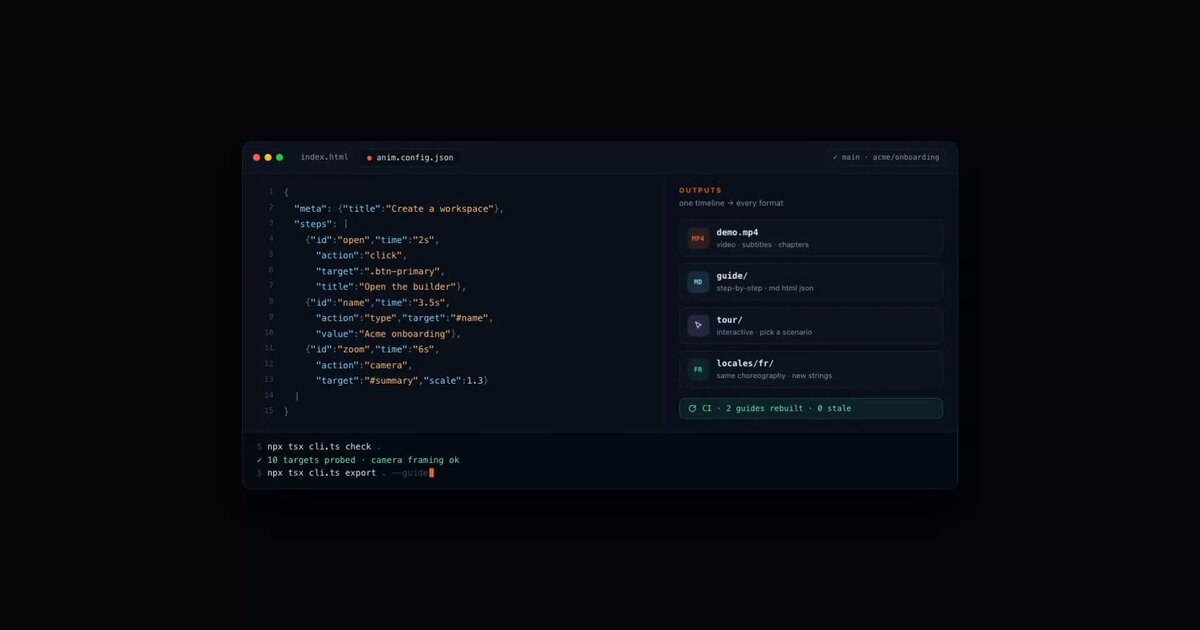
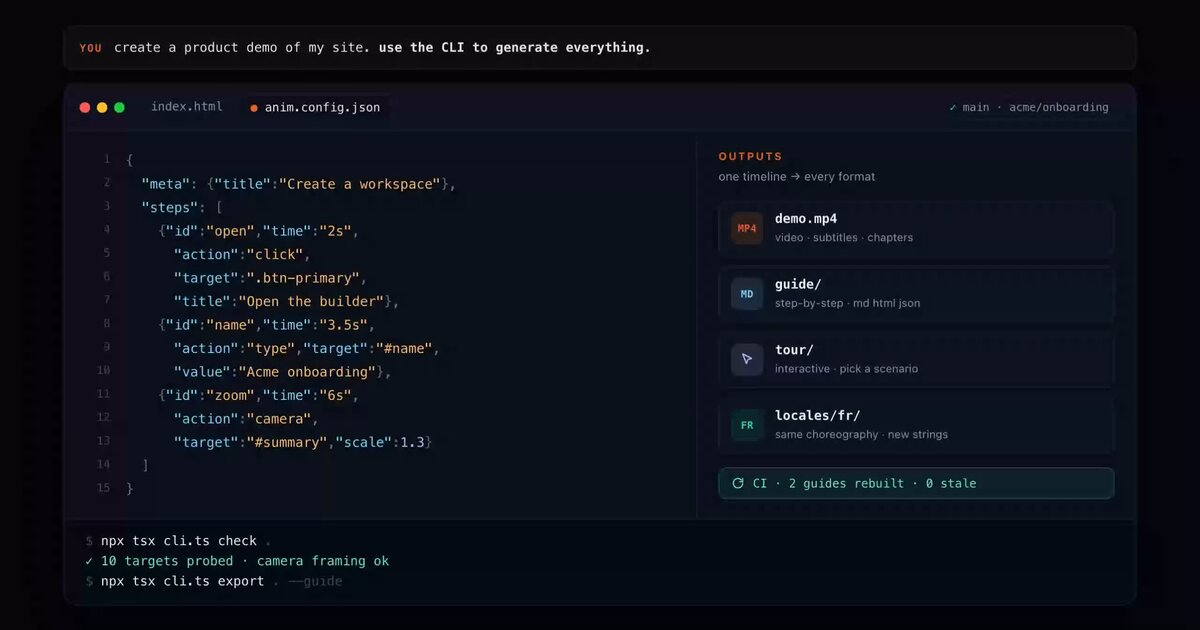
Le produit devient Vistaro, « Show. Don't Tell. », et le site porte le nouveau nom de bout en bout.
Renommage complet de la page : logo (nav et pied), titre et og:title (qui portent aussi le slogan), aria-labels, chip du clip en capitales, trois réponses de FAQ et une question, textes alternatifs, © ; le H1 devient le slogan et la phrase « Product demos as code » ouvre désormais le paragraphe du héros. Courriel de vente déplacé vers sales@vistaro.dev (domaine à enregistrer avant mise en ligne : le DNS est encore vide). Sources du clip renommées (meta.app, slug, titre du gabarit) et embed régénéré; aucune ré-export vidéo, le nom n'étant jamais rendu dans le clip. og.jpg régénéré du poster courant (il datait de la révision précédente du gabarit). Revue de code à contexte neuf : COMMIT OK.

diff --git a/website/index.html b/website/index.html
@@ -3,9 +3,9 @@
 <head>
 <meta charset="utf-8">
 <meta name="viewport" content="width=device-width, initial-scale=1">
-<title>Demoforge — Product demos as code</title>
+<title>Vistaro — Show. Don't Tell.</title>
 <meta name="description" content="The demo tool built for coding agents: Claude Code, Codex or Antigravity writes your demo as two text files in the repo, compiles video, guides, reels, tours and every locale, and audits its own work. Humans review the diff and tweak details.">
-<meta property="og:title" content="Demoforge — Product demos as code">
+<meta property="og:title" content="Vistaro — Show. Don't Tell.">
 <meta property="og:description" content="Built for your coding agent, not your screen recorder: one instruction and it writes the demo as code in your repo, compiles every artifact in every locale, and regenerates whenever the UI changes. You review the diff and tweak details.">
 <meta property="og:image" content="assets/og.jpg">
 <meta property="og:type" content="website">
@@ -509,9 +509,9 @@
 <!-- ======================= NAV ======================= -->
 <header class="nav">
   <div class="container nav-inner">
-    <a class="logo" href="#top" aria-label="Demoforge home">
+    <a class="logo" href="#top" aria-label="Vistaro home">
       <svg viewBox="0 0 32 32" aria-hidden="true"><rect width="32" height="32" rx="7" fill="#0E1522"/><path d="M16 5l2.6 7.4L26 15l-7.4 2.6L16 25l-2.6-7.4L6 15l7.4-2.6L16 5z" fill="#E4632B"/></svg>
-      Demoforge
+      Vistaro
     </a>
     <nav class="nav-links" id="navLinks">
       <a href="#agent">Ask your agent</a>
@@ -522,7 +522,7 @@
       <a class="mobile-cta" href="#quickstart">Get started</a>
     </nav>
     <div class="nav-cta">
-      <a class="gh" href="https://github.com/clarido/screenshot-animator" target="_blank" rel="noopener" aria-label="Demoforge on GitHub">
+      <a class="gh" href="https://github.com/clarido/screenshot-animator" target="_blank" rel="noopener" aria-label="Vistaro on GitHub">
         <svg viewBox="0 0 16 16" fill="currentColor" aria-hidden="true"><path d="M8 0C3.58 0 0 3.58 0 8c0 3.54 2.29 6.53 5.47 7.59.4.07.55-.17.55-.38 0-.19-.01-.82-.01-1.49-2.01.37-2.53-.49-2.69-.94-.09-.23-.48-.94-.82-1.13-.28-.15-.68-.52-.01-.53.63-.01 1.08.58 1.23.82.72 1.21 1.87.87 2.33.66.07-.52.28-.87.51-1.07-1.78-.2-3.64-.89-3.64-3.95 0-.87.31-1.59.82-2.15-.08-.2-.36-1.02.08-2.12 0 0 .67-.21 2.2.82.64-.18 1.32-.27 2-.27s1.36.09 2 .27c1.53-1.04 2.2-.82 2.2-.82.44 1.1.16 1.92.08 2.12.51.56.82 1.27.82 2.15 0 3.07-1.87 3.75-3.65 3.95.29.25.54.73.54 1.48 0 1.07-.01 1.93-.01 2.2 0 .21.15.46.55.38A8.01 8.01 0 0 0 16 8c0-4.42-3.58-8-8-8z"/></svg>
         <span>GitHub</span>
       </a>
@@ -537,9 +537,9 @@
 <!-- ======================= HERO ======================= -->
 <section class="hero" id="top">
   <div class="container hero-inner">
-    <h1>Product demos as code.</h1>
+    <h1>Show. Don't Tell.</h1>
     <p class="sub">
-      Built for your coding agent, not your screen recorder. One instruction,
+      Product demos as code, built for your coding agent. One instruction,
       <b>create a product demo of my site</b>, and Claude Code, Codex or Antigravity writes two
       text files in your repo and compiles them into <b>video, guide, reel and tour, in every
       locale</b>, auditing its own work. You review the diff and tweak details; the demo
@@ -563,11 +563,11 @@ Use the CLI to generate everything.</pre>
     <p class="hero-quick-note">The agent finds its manual (<code>AGENTS.md</code>) in the repo and runs everything locally: nothing to sign up for, no key to paste. Prefer to drive? The commands are below.</p>
   </div>
 
-  <!-- The hero clip: real Demoforge output, embedded with the page the CLI itself generates. -->
+  <!-- The hero clip: real Vistaro output, embedded with the page the CLI itself generates. -->
   <div class="reel-wrap">
-    <div class="reel-chip"><span class="pulse"></span> THIS CLIP IS DEMOFORGE OUTPUT · GENERATED AND EMBEDDED BY THE CLI ITSELF</div>
+    <div class="reel-chip"><span class="pulse"></span> THIS CLIP IS VISTARO OUTPUT · GENERATED AND EMBEDDED BY THE CLI ITSELF</div>
     <div class="anim-embed" id="reelEmbed">
-      <img class="reel-poster" src="assets/reel.poster.webp" alt="The reel's payoff frame: the prompt that started it, the Demoforge timeline and the artifacts it compiled" loading="lazy">
+      <img class="reel-poster" src="assets/reel.poster.webp" alt="The reel's payoff frame: the prompt that started it, the Vistaro timeline and the artifacts it compiled" loading="lazy">
       <iframe
         class="anim-embed-frame"
         src="src/reel/embed-desktop.html"
@@ -691,7 +691,7 @@ to generate everything.</pre>
         </div>
         <figure class="codeblock shot-frame" style="margin:0;">
           <div class="cb-bar"><span class="cb-dot"></span>demo/guide/assets/step-08.png · a real captured guide frame</div>
-          <img src="assets/guide-step.png" width="2560" height="1440" alt="A guide step frame captured by Demoforge: the Clarido app with a spotlight ring and numbered badge on the Export button" loading="lazy">
+          <img src="assets/guide-step.png" width="2560" height="1440" alt="A guide step frame captured by Vistaro: the Clarido app with a spotlight ring and numbered badge on the Export button" loading="lazy">
         </figure>
       </div>
     </div>
@@ -842,7 +842,7 @@ demo.mp4 + demo.vtt   <span class="c">regenerated by export, never edited</span>
           <li>Agent HTTP API, <b>2,000 calls</b>/mo</li>
           <li><b>5 managed locales</b></li>
         </ul>
-        <a class="btn btn-primary" href="mailto:sales@demoforge.dev?subject=Builder%20plan%20waitlist">Start Builder</a>
+        <a class="btn btn-primary" href="mailto:sales@vistaro.dev?subject=Builder%20plan%20waitlist">Start Builder</a>
       </div>
 
       <div class="price">
@@ -857,7 +857,7 @@ demo.mp4 + demo.vtt   <span class="c">regenerated by export, never edited</span>
           <li>Unlimited managed locales + <b>translation memory</b></li>
           <li><b>Custom embed domain</b></li>
         </ul>
-        <a class="btn btn-ghost" href="mailto:sales@demoforge.dev?subject=Team%20plan%20waitlist">Start Team</a>
+        <a class="btn btn-ghost" href="mailto:sales@vistaro.dev?subject=Team%20plan%20waitlist">Start Team</a>
       </div>
 
       <div class="price">
@@ -870,7 +870,7 @@ demo.mp4 + demo.vtt   <span class="c">regenerated by export, never edited</span>
           <li><b>SLA, DPA</b>, private preview domains</li>
           <li>Dedicated support</li>
         </ul>
-        <a class="btn btn-ghost" href="mailto:sales@demoforge.dev">Talk to us</a>
+        <a class="btn btn-ghost" href="mailto:sales@vistaro.dev">Talk to us</a>
       </div>
     </div>
 
@@ -889,7 +889,7 @@ demo.mp4 + demo.vtt   <span class="c">regenerated by export, never edited</span>
       <details open>
         <summary>How is this different from Arcade, Supademo, Storylane, Navattic, Scribe or Tango?</summary>
         <div class="a">
-          Those tools <b>capture pixels</b>, through a browser extension or a recorder, into a GUI project. A capture is a dead end that rots on contact with the sprint: when the UI changes, someone re-records. A Demoforge demo is <b>source</b>: two text files that regenerate, diff pixel-by-pixel in CI, and compile to video, guide, reel, tour and every locale from one timeline. It is also the only one of the bunch your coding agent can drive end to end; the entire review surface is text and JSON. A capture vendor can bolt on a code export, but the pipeline (build keys, frame diffs, agent review, locale compilation) <b>is</b> the product; copying it means becoming a different product. If your team wants zero code and a GUI editor, those tools are honest alternatives. We built this for the teams they can't serve.
+          Those tools <b>capture pixels</b>, through a browser extension or a recorder, into a GUI project. A capture is a dead end that rots on contact with the sprint: when the UI changes, someone re-records. A Vistaro demo is <b>source</b>: two text files that regenerate, diff pixel-by-pixel in CI, and compile to video, guide, reel, tour and every locale from one timeline. It is also the only one of the bunch your coding agent can drive end to end; the entire review surface is text and JSON. A capture vendor can bolt on a code export, but the pipeline (build keys, frame diffs, agent review, locale compilation) <b>is</b> the product; copying it means becoming a different product. If your team wants zero code and a GUI editor, those tools are honest alternatives. We built this for the teams they can't serve.
         </div>
       </details>
 
@@ -929,9 +929,9 @@ demo.mp4 + demo.vtt   <span class="c">regenerated by export, never edited</span>
       </details>
 
       <details>
-        <summary>Who is Demoforge not for?</summary>
+        <summary>Who is Vistaro not for?</summary>
         <div class="a">
-          If you want to record a demo by clicking through your app once and dragging a hotspot in a GUI, a capture tool will make you faster. That is their strength and we say so. Demoforge pays off when demos are <b>engineering artifacts</b>: many outputs, many locales, frequent UI change, and a repo-and-CI workflow you want your agent to own. And the on-ramp is gentler than "learn a JSON format": <code>record --learn</code> (experimental) watches a recording of your flow and writes the draft timeline for you to clean up. If even that is too much, the GUI vendors are a better fit.
+          If you want to record a demo by clicking through your app once and dragging a hotspot in a GUI, a capture tool will make you faster. That is their strength and we say so. Vistaro pays off when demos are <b>engineering artifacts</b>: many outputs, many locales, frequent UI change, and a repo-and-CI workflow you want your agent to own. And the on-ramp is gentler than "learn a JSON format": <code>record --learn</code> (experimental) watches a recording of your flow and writes the draft timeline for you to clean up. If even that is too much, the GUI vendors are a better fit.
         </div>
       </details>
     </div>
@@ -957,7 +957,7 @@ demo.mp4 + demo.vtt   <span class="c">regenerated by export, never edited</span>
       <div class="foot-brand">
         <a class="logo" href="#top">
           <svg viewBox="0 0 32 32" aria-hidden="true"><rect width="32" height="32" rx="7" fill="#0E1522"/><path d="M16 5l2.6 7.4L26 15l-7.4 2.6L16 25l-2.6-7.4L6 15l7.4-2.6L16 5z" fill="#E4632B"/></svg>
-          Demoforge
+          Vistaro
         </a>
         <p>Product demos as code: versioned with your repo, reviewed in the pull request, rebuilt in CI when the UI changes.</p>
       </div>
@@ -978,12 +978,12 @@ demo.mp4 + demo.vtt   <span class="c">regenerated by export, never edited</span>
       <div class="foot-col">
         <h3>Company</h3>
         <a href="#pricing">Plans &amp; pricing</a>
-        <a href="mailto:sales@demoforge.dev">sales@demoforge.dev</a>
+        <a href="mailto:sales@vistaro.dev">sales@vistaro.dev</a>
       </div>
     </div>
     <div class="foot-bottom">
-      <span>© 2026 Demoforge. The CLI is ISC-licensed open source.</span>
-      <span>Every clip, frame and strip on this page is real Demoforge output from this repo. <code>website/src/reel/</code></span>
+      <span>© 2026 Vistaro. The CLI is ISC-licensed open source.</span>
+      <span>Every clip, frame and strip on this page is real Vistaro output from this repo. <code>website/src/reel/</code></span>
     </div>
   </div>
 </footer>

diff --git a/website/src/reel/index.html b/website/src/reel/index.html
@@ -3,7 +3,7 @@
 <head>
 <meta charset="utf-8">
 <meta name="viewport" content="width=device-width, initial-scale=1">
-<title>Demoforge — write the timeline, get the demos</title>
+<title>Vistaro — write the timeline, get the demos</title>
 <style>
   :root {
     --bg: #05070D;
